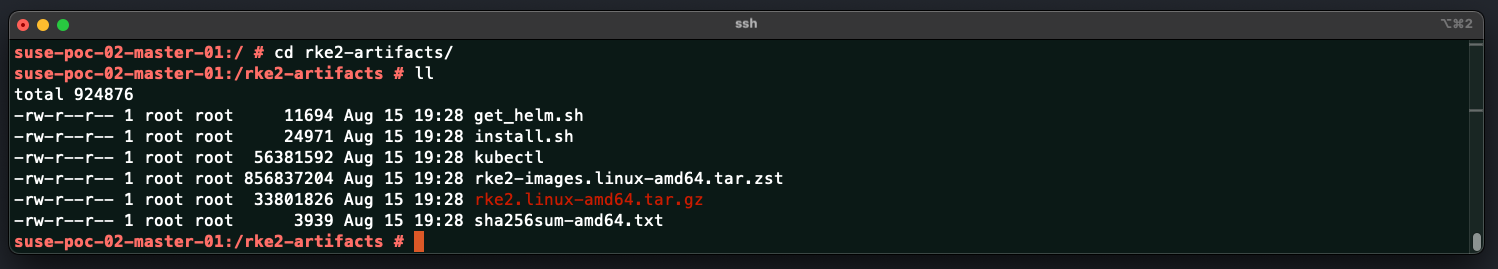
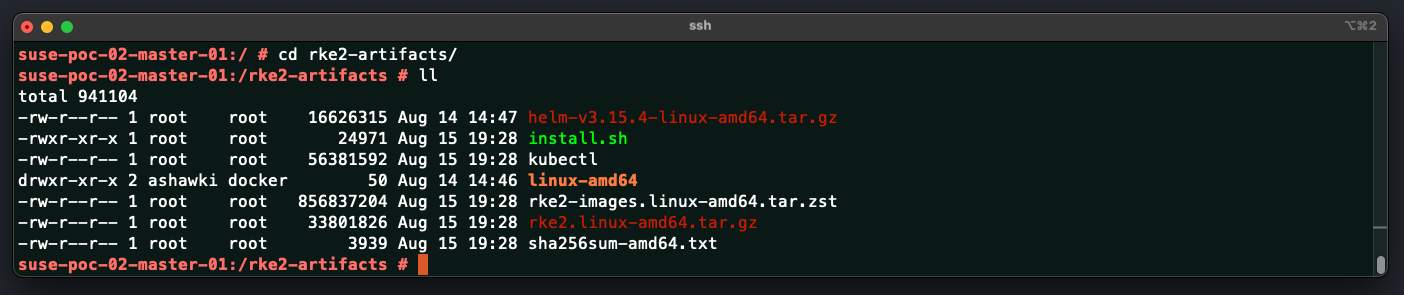
FC

Changed region(s): [[0.0, 0.0297, 1.0, 0.9517]]

diff --git a/1-Install/RKE2/2-Install-RKE2-Air-Gapped/README.md b/1-Install/RKE2/2-Install-RKE2-Air-Gapped/README.md
@@ -180,9 +180,10 @@ sudo curl -LO "https://dl.k8s.io/release/$(curl -L -s https://dl.k8s.io/release/
     <img src="Images/step-3.png">
 </p>
 
-4. Download the Helm tool to the same folder
+4. Download the Helm binary tool to the same folder and unzip the tar file. Please note, this link is download the latest Helm version at the time.
 ```bash
-curl -fsSL -o get_helm.sh https://raw.githubusercontent.com/helm/helm/main/scripts/get-helm-3
+sudo wget https://get.helm.sh/helm-v3.15.4-linux-amd64.tar.gz
+sudo tar -zxvf helm-v3.15.4-linux-amd64.tar.gz
 ```
 
 <p align="center">
@@ -287,7 +288,7 @@ You can check the statue of the service using the command `sudo systemctl status
 
 13. Install and configure kubectl on master node (Using the file you have download and copied to the master nodes in step 5)
 ```bash
-cd /root/rke2-artifacts
+cd /rke2-artifacts
 # install kubectl
 sudo install -o root -g root -m 0755 kubectl /usr/local/bin/kubectl
 # bring the kubecofig file created by RKE2 and add it to the proper location
@@ -296,23 +297,30 @@ cp /etc/rancher/rke2/rke2.yaml ~/.kube/config
 # assign required privilege to the file
 chown $(whoami):$(whoami) ~/.kube/config
 ```
+
+<p align="center">
+    <img src="Images/step-13.png">
+</p>
+
 14. Ensure cluster is working as expected using the kubectl command below. Check the nodes are ready and Pods are running
 ```bash
 kubectl get nodes
 kubectl get pod -A
 ```
 
-15. Install Helm on the master node (Using the file you have download and copied to the master nodes in step 5)
+<p align="center">
+    <img src="Images/step-14.png">
+</p>
+
+15. Install Helm on the master node (Using the file you have download and copied to the master nodes in step 5). In this step we have already downloaded the binary file. You just need to move it on the master node to the `/usr/local/bin/helm`
 ```bash
-sudo chmod 700 get_helm.sh
-sudo ./get_helm.sh
+sudo cd rke2-artifacts/
+sudo mv linux-amd64/helm /usr/local/bin/helm
 ```
 
----
-
-## Script
-
-The Quick-Start Guide officially provided by `SUSE Rancher RKE2` is already a script, thus, this repo do not provide any scripts for this objective.
+<p align="center">
+    <img src="Images/step-15.png">
+</p>
 
 ---
 

diff --git a/1-Install/RKE2/1-Install-RKE2-Quick-Start/README.md b/1-Install/RKE2/1-Install-RKE2-Quick-Start/README.md
@@ -290,12 +290,6 @@ curl https://raw.githubusercontent.com/helm/helm/main/scripts/get-helm-3 | bash
 
 ---
 
-## Script
-
-The Quick-Start Guide officially provided by `SUSE Rancher RKE2` is already a script, thus, this repo do not provide any scripts for this objective.
-
----
-
 ## References
 
 - [RKE2 Quick-Start](https://docs.rke2.io/install/quickstart)
